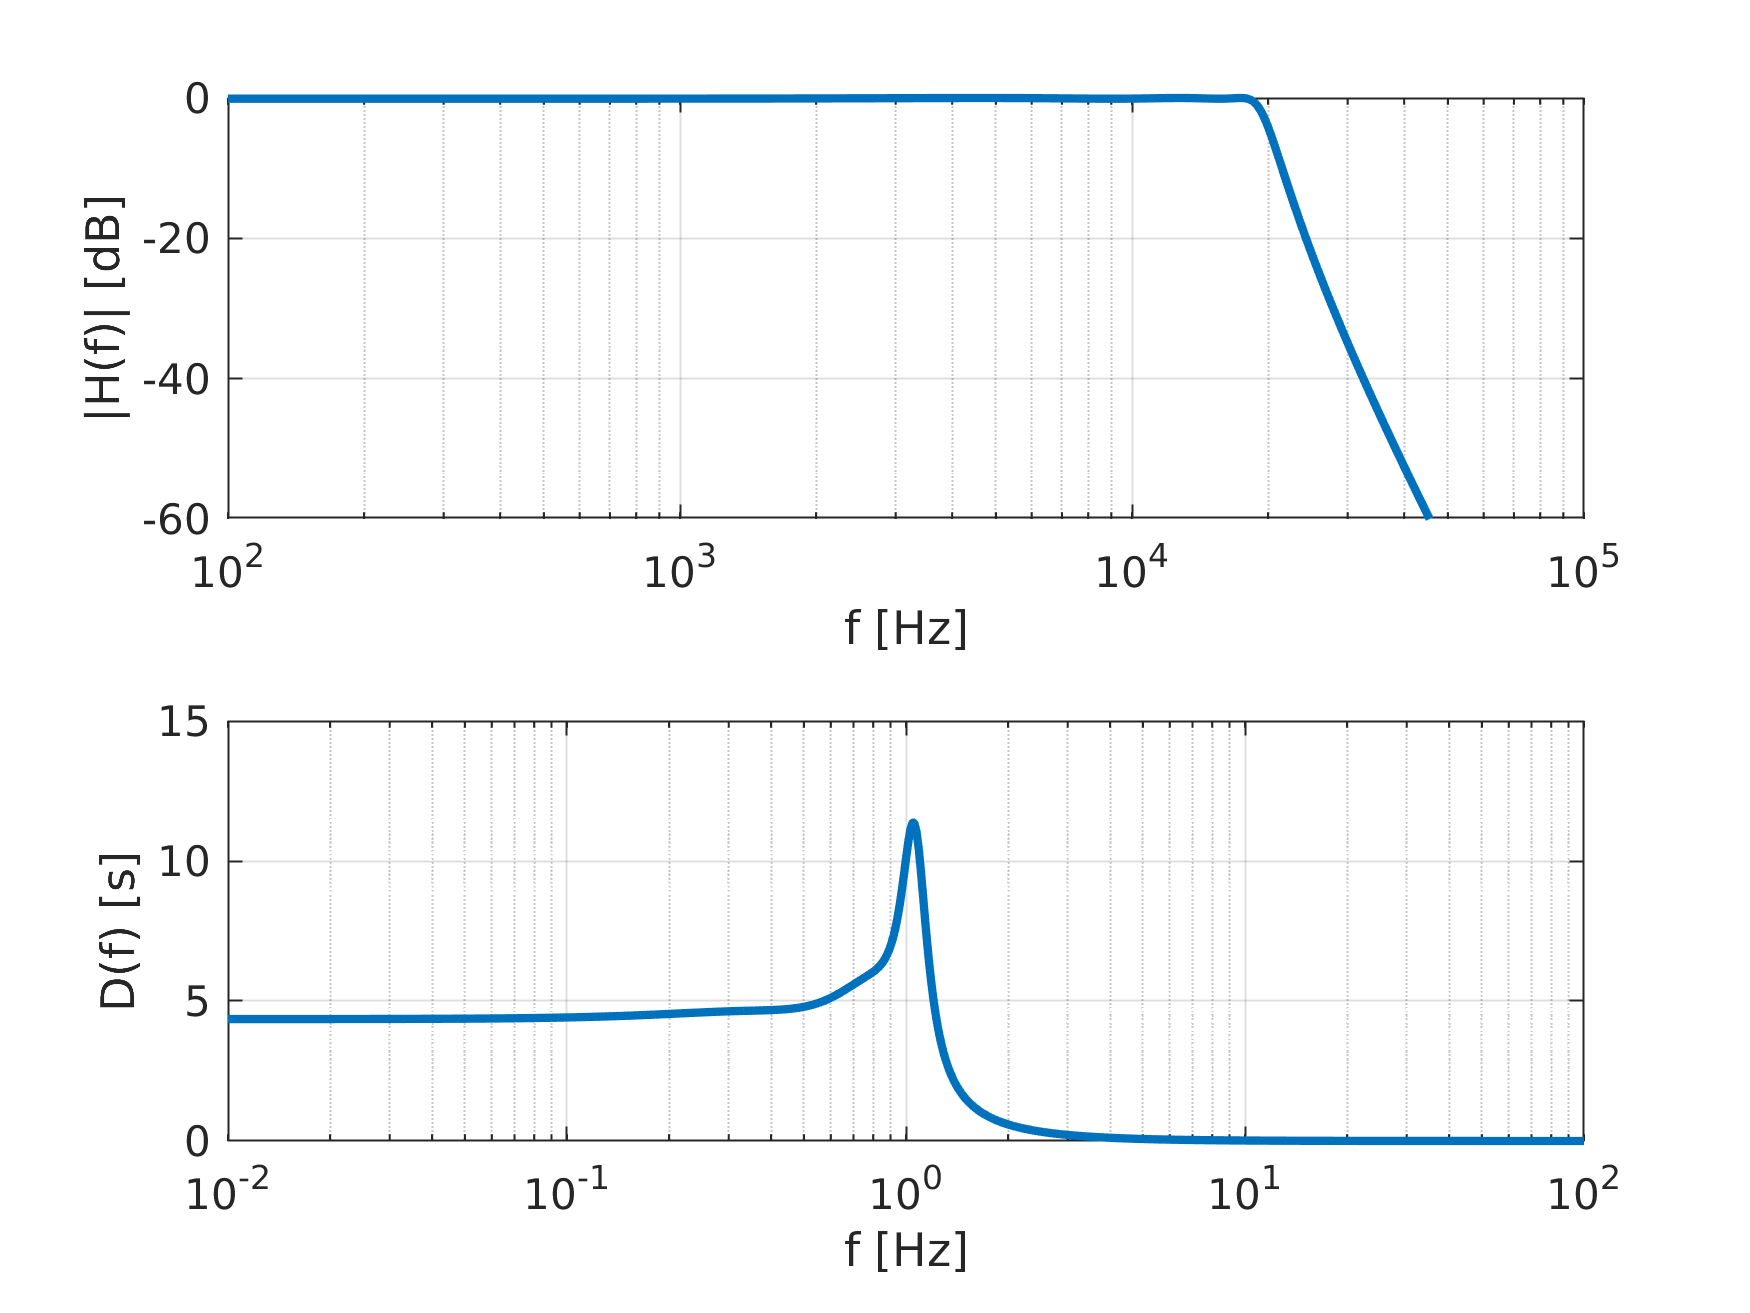
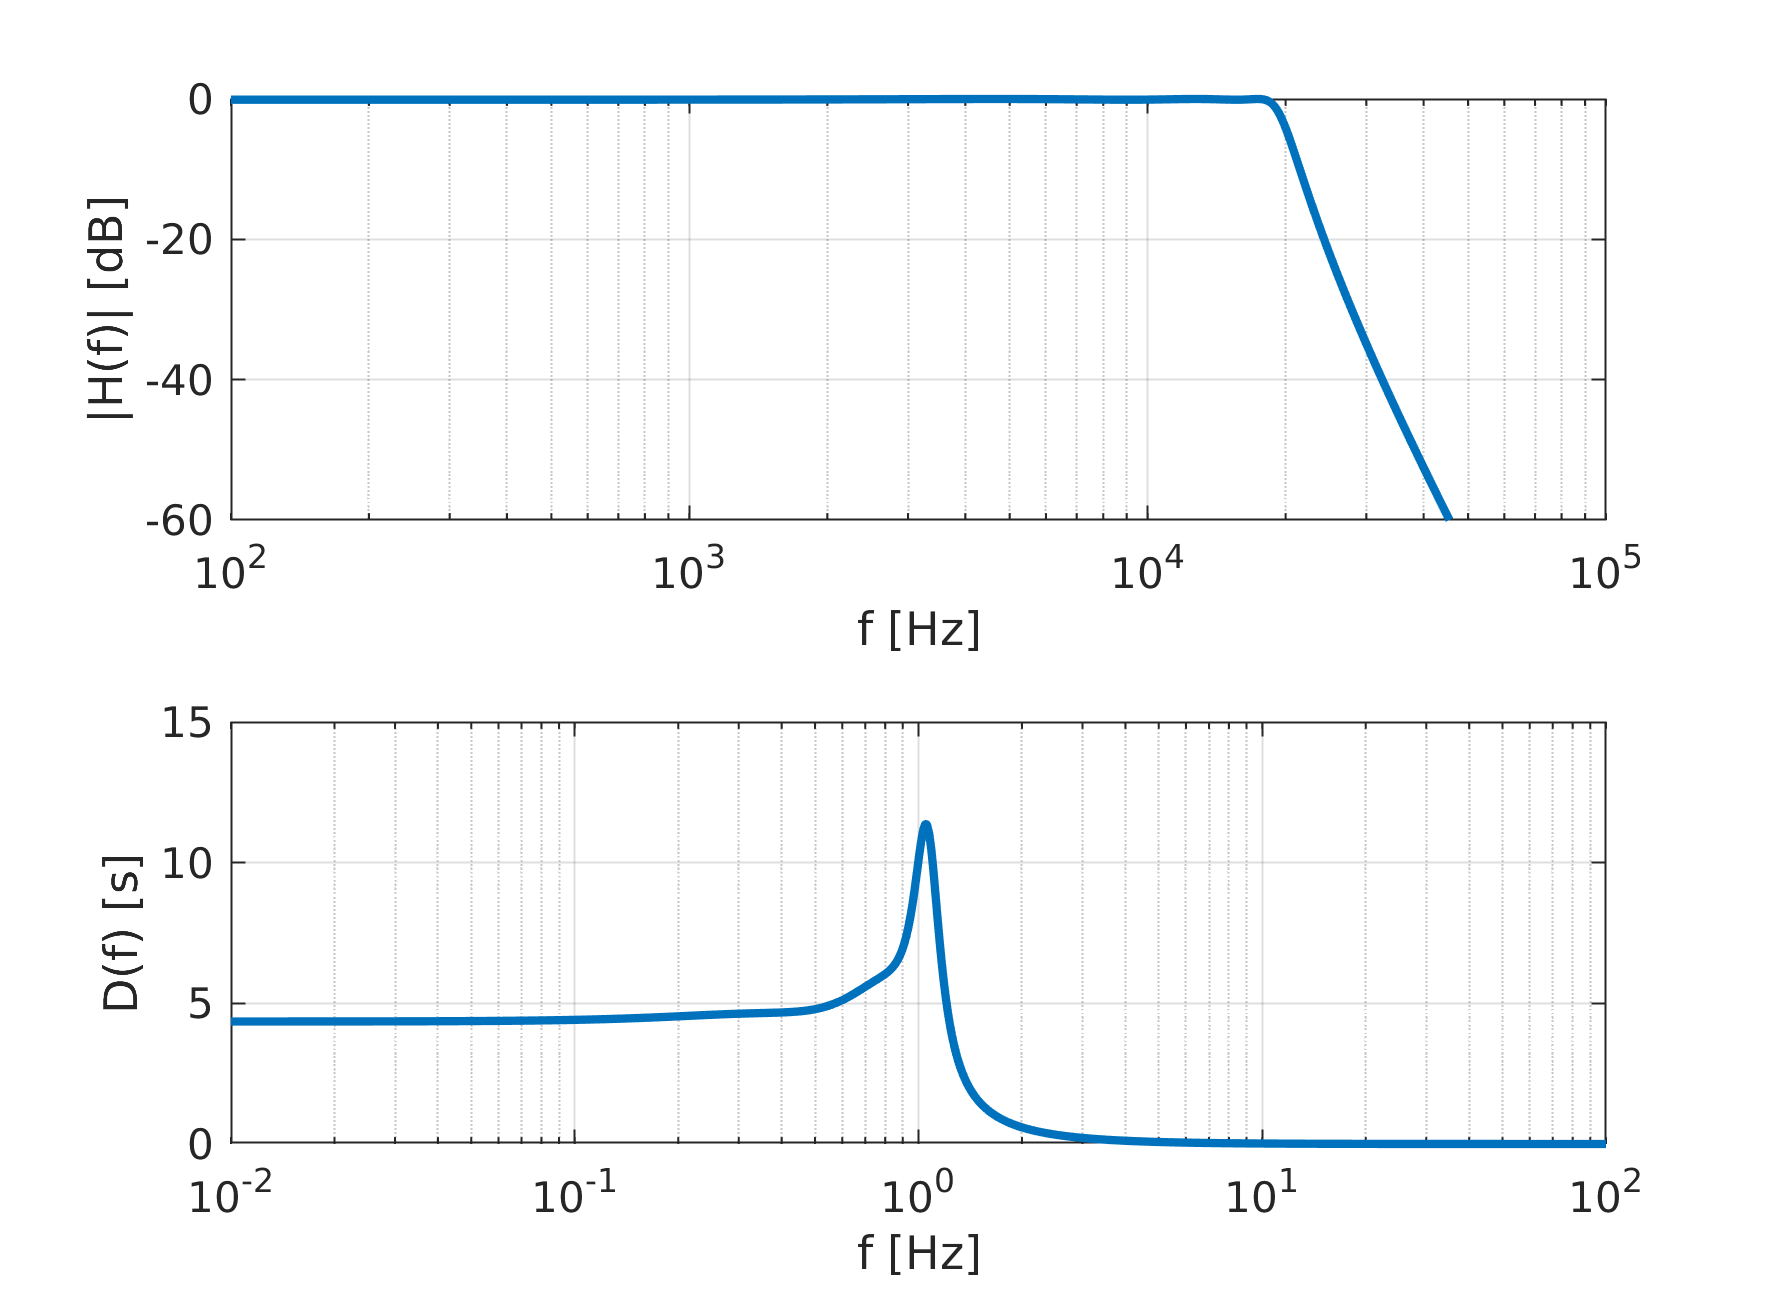
grpdelay i filter

diff --git a/section/filtre.tex b/section/filtre.tex
@@ -142,12 +142,12 @@ Bessel filteret, det er designet som et filter med maksimal fald fase, har dog l
 Det vælges at anvende et Chebychev type I filter, der viser sig at have den bedste dæmpning i overgangsbåndet.
 Det høje udsving på gruppeløbetiden for denne filtertype, som det fremgår nederst i figur \ref{fig:filter_typer}, vil på det denomaliserede filter ligger indenfor, de i projektet, acceptable værdier. 
 \\
-I figur \ref{fig:filter_cheb1_denorm} ses den denormaliserede filterkarakteristik for det valgte filter med en pasbåndsrippel på $0,1 \si{\decibel}$ og en knækfrekvens på $f_c = 18 \si{\kilo\hertz}$. 
+I figur \ref{fig:filter_cheb1_denorm} øverst ses den denormaliserede filterkarakteristik for det valgte filter med en pasbåndsrippel på $0,1 \si{\decibel}$ og en knækfrekvens på $f_c = 18 \si{\kilo\hertz}$ og nederst ses filterets nominerede gruppeløbstid. 
 
 \begin{figure}[h!]
 	\centering
 	\includegraphics[width=1\textwidth]{matlab/filter_cheb1_denorm.png}
-	\caption{Denormeret 6.ordens filter karakteristik og guppeløbstid af Chebyshev Type I ($0,1 \si{\decibel}$}
+	\caption{Denormeret 6.ordens filter karakteristik og normineret guppeløbstid af Chebyshev Type I ($0,1 \si{\decibel}$}
 	\label{fig:filter_cheb1_denorm}
 \end{figure}
 \jj{ret matlab fil med denormineret grpdelay}
@@ -324,9 +324,8 @@ De anvendte værdier ses i tabel xx kolonne 3 og 4 og er taget fra \cite[Table B
 
 Denominering og impedans tilpasning af komponenterne gøres ud fra følgende
 \begin{align}
-	R &= R_n \cdot \Omega_n \\
-	C &= \frac{C_n}{2\pi f_c \Omega_n} 
+	R &= R_n \cdot Z_n \\
+	C &= \frac{C_n}{\Omega_n} \quad , \quad \Omega_n = 2\pi f_p 
 \end{align} 
-\jj{få lige styr på formler og begreber her}
-Det er valgt at bruge $\Omega_n = \num{10E3}$ og $f_c = 18\si{\kilo\hertz}$.
+Det er valgt at bruge $Z_n = \num{10E3}$ og $f_p = 18\si{\kilo\hertz}$.
 De endelige komponentværdier kan alle ses i det samlede diagram i bilag \ref{bilag:diagram}.

diff --git a/matlab/filter_designer.m b/matlab/filter_designer.m
@@ -1,0 +1,23 @@
+function Hd = filter_designer
+%FILTER_DESIGNER Returns a discrete-time filter object.
+
+% MATLAB Code
+% Generated by MATLAB(R) 9.3 and Signal Processing Toolbox 7.5.
+% Generated on: 23-May-2018 15:00:13
+
+% Chebyshev Type I Lowpass filter designed using FDESIGN.LOWPASS.
+
+% All frequency values are in Hz.
+Fs = 44100;  % Sampling Frequency
+
+N     = 6;      % Order
+Fpass = 18000;  % Passband Frequency
+Apass = 1;      % Passband Ripple (dB)
+
+% Construct an FDESIGN object and call its CHEBY1 method.
+h  = fdesign.lowpass('N,Fp,Ap', N, Fpass, Apass, Fs);
+Hd = design(h, 'cheby1');
+
+grpdelay(Hd,1024,Fs);
+
+% [EOF]

diff --git a/matlab/groupDelaytf_custom.m b/matlab/groupDelaytf_custom.m
@@ -1,0 +1,25 @@
+function groupDelay = groupDelaytf_custom(SYS,varargin)
+
+freqScale = 'rad/s';
+
+if nargin > 2
+    disp('Too many input arguments!');
+    groupDelay = [];
+    return
+elseif nargin > 1
+    freqScale = varargin{1}; 
+end
+sk = 2*pi;
+if strcmp(freqScale,'Hz') || strcmp(freqScale,'hz')
+    sk = 1;
+end 
+
+[M,P,w] = bode(SYS);
+w = linspace(w(1),w(end),length(w)*1000)/(sk);
+[M,P] = bode(SYS,w*2*pi);
+P = P(:)';
+groupDelay = -gradient(P,w)/360;
+grid on
+semilogx(w*sk,groupDelay)
+  
+return

diff --git a/matlab/chebychev1_denorm.m b/matlab/chebychev1_denorm.m
@@ -29,8 +29,9 @@ ylabel({'|H(f)| [dB]'});
 %legend('Butterworth', 'Chebychev I', 'Chebychev II', 'Bessel','Location','southwest');
 
 subplot(2,1,2);
-axis([1E2 10E4 -2 15])
+
 gd = groupDelaytf(H_cheb1);
+%axis([1E2 10E4 -15 10])
 grid on
 xlabel({'f [Hz]'});
 ylabel({'D(f) [s]'});
